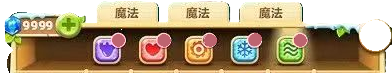
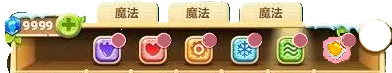
图片

Changed region(s): [[0.8265, 0.4384, 0.9184, 0.8767]]

diff --git a/Classes/scenes/BaseLevelScene.cpp b/Classes/scenes/BaseLevelScene.cpp
@@ -168,7 +168,8 @@ void BaseLevelScene::wenhao(Ref* pSender) {
         "Carrot/jieshao/jie_2.png",
         "Carrot/jieshao/jie_3.png",
         "Carrot/jieshao/jie_4.png",
-        "Carrot/jieshao/jie_5.png"
+        "Carrot/jieshao/jie_5.png",
+        "Carrot/jieshao/jie_6.png"
     };
     for (int i = 0; i < mapImages.size(); ++i) {
         Layout* layout = Layout::create();
